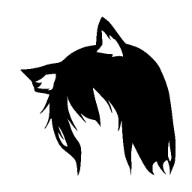
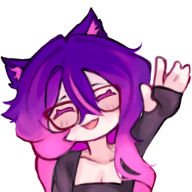
Update PFP

diff --git a/pages/friends.vue b/pages/friends.vue
@@ -7,7 +7,6 @@ const friends = ref([
   { id: '923313823195205645', url: 'https://www.deatg.com/' },
   { id: '929208515883569182', url: 'https://krstlskll69.github.io/' },
   { id: '836177139798638592', url: 'https://ashleygraves.eu/' },
-  // { id: '334833943838720000', url: 'https://elh.gay/' }, // wish I didn't fuck this friendship up but what you gonna do?
   { id: '946388882436546640', url: 'https://wjuton.dev/' },
   { id: '381494697073573899', url: 'https://elissa.moe/' },
   { id: '343383572805058560', url: 'https://vendicated.dev/' },

diff --git a/components/Header.vue b/components/Header.vue
@@ -7,8 +7,9 @@
     <nav class="row gap2 spaceBetween alignCenter">
       <NuxtLink to="/" class="home interactive" aria-label="home">
         <NuxtImg
-          :aria-hidden="true" alt="my profile picture" class="pfp"
-          src="/assets/pfp.low.svg" preload width="40" height="40"
+          :aria-hidden="true" alt="my oc waving" class="pfp"
+          src="/assets/wave.png" preload width="40" height="40"
+          :placeholder="8" format="webp"
         />
       </NuxtLink>
 

diff --git a/pages/index.vue b/pages/index.vue
@@ -5,8 +5,9 @@ definePageMeta({ layout: 'home' })
 <template>
   <div id="home" class="row centerChildren">
     <NuxtImg
-      aria-hidden="true" alt="my profile picture" class="pfp"
-      src="/assets/pfp.svg" preload width="320" height="320"
+      aria-hidden="true" alt="my oc waving" class="pfp"
+      src="/assets/wave.png" preload width="320" height="320"
+      :placeholder="64" format="webp"
     />
 
     <main class="col gap2">
